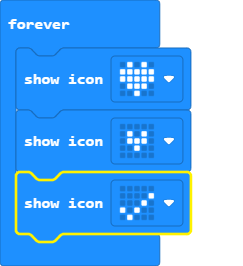
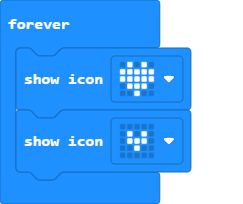
Update main.blocks, main.ts

Changed region(s): [[0.0576, 0.1765, 0.8066, 0.9412], [0.0288, 0.0588, 0.2881, 0.1471], [0.144, 0.2059, 0.2305, 0.2353]]

diff --git a/main.ts b/main.ts
@@ -1,5 +1,4 @@
 basic.forever(function () {
     basic.showIcon(IconNames.Heart)
     basic.showIcon(IconNames.SmallHeart)
-    basic.showIcon(IconNames.Yes)
 })
